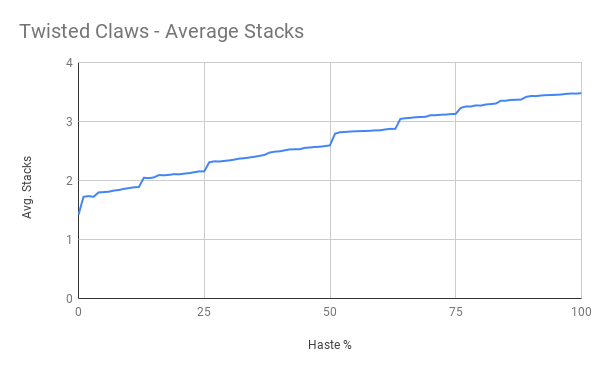
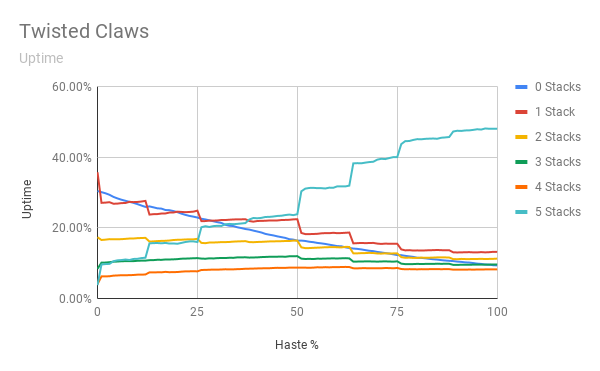
Guardian azerite analysis post

diff --git a/themes/dg-theme/layouts/_default/single.html b/themes/dg-theme/layouts/_default/single.html
@@ -16,10 +16,15 @@
 {{ define "main" }}
 {{ partial "header.html" . }}
 <main class="main">
-  <article class="article main-wrapper{{ if (or .Parent.Params.showsectiontoc .Params.series) }} with-sidebar{{ end }}">
+  <article class="article main-wrapper{{ if (or .Parent.Params.showsectiontoc .Params.series .Params.showtoc) }} with-sidebar{{ end }}">
     {{ if .Parent.Params.showsectiontoc }}
       <section class="section-overview toc">
         {{ partial "section-toc.html" . }}
+      </section>
+    {{ end }}
+    {{ if .Params.showtoc }}
+      <section class="section-overview toc">
+        {{ partial "post-toc.html" . }}
       </section>
     {{ end }}
     {{ if .Params.series }}

diff --git a/themes/dg-theme/assets/css/article.scss b/themes/dg-theme/assets/css/article.scss
@@ -2,6 +2,8 @@
 
 .article img {
   max-width: 100%;
+  display: block;
+  margin: auto;
 }
 
 .full-width {

diff --git a/themes/dg-theme/layouts/partials/post-toc.html b/themes/dg-theme/layouts/partials/post-toc.html
@@ -1,0 +1,4 @@
+<div class="sticky-toc">
+  <h1>{{ .Title }}</h1>
+  {{ .TableOfContents }}
+</div>

diff --git a/content/guardian/azerite-analysis.md b/content/guardian/azerite-analysis.md
@@ -3,20 +3,17 @@ title: "Guardian Druid Azerite Traits: Analysis"
 date: '2018-07-26'
 authors: ['Faide']
 description: "Azerite powers are a new system in Battle for Azeroth, similar to the Netherlight Crucible from Legion. Here is a detailed analysis of the azerite traits available to Guardians in Battle for Azeroth."
+showtoc: true
 patch: 8.0.1
 ---
 
 Azerite powers are a new system in Battle for Azeroth, similar to the Netherlight Crucible from Legion. They provide various bonuses and augment your skills in ways similar to tier set bonuses or legendaries, but at a slightly lower power level.
 
-Let's take a look at the traits available to Guardians. I'm going to focus today on only the subset of traits specific to the Guardian spec (and traits shared between Guardian and Feral), as they are the most relevant to this post. Keep in mind that this is a small subset of all available traits, and some are likely to be stronger than the Guardian specific traits in either offense or defense. 
+Let's take a look at the traits available to Guardians. First, I'll cover the set of traits specific to Guardian (or traits from other Druid specs that Guardian can select) on the outer ring (Tier 3), and then some of the more general tanking-related traits that are available on the middle and inner rings (Tier 2 and Tier 1, respectively). 
 
-You are always guaranteed at least one Guardian specific trait on any azerite piece (in some cases it's possible to have two, if Wild Fleshrending is present).
+I'll only be focusing on the value of single traits for now (that is, going from having none of a trait to having one of that trait), since much of the value comes from the effects that don't scale with the number of instances of that trait that are present. As a result, stacking more than one of a particular trait will have reduced value and almost always be worse than taking the first instance of another trait. As a general rule: values that are denoted by the variables X or Y scale with item level and trait stacking.
 
-Because some of the effects on the traits scale with item level, I will be assuming an item level of 370 (Heroic Uldir) for all trait values.
-
- - focus mainly on single ranks, since majority of value is in non-scaling effects
- - focus only on tier 3 traits: guardian traits and general traits that directly compete 
- - 
+Because many traits scale with item level, I will be assuming an item level of 370 (Heroic Uldir) for all trait values.
 
 # Druid Traits
 
@@ -24,101 +21,183 @@ The following traits are available only to Druids. Most of these are Guardian sp
 
 ## Craggy Bark
 
-{{< spell 276157 "Craggy Bark" >}} - {{< spell 22812 "Barkskin" >}} reduces melee attacks against you by X damage.
+- {{< spell 276157 "Craggy Bark" >}} - {{< spell 22812 "Barkskin" >}} reduces melee attacks against you by X damage.
 
-At 370, the value of the reduction is 362 damage per melee. If we assume a standardized enemy swing timer of 2 seconds per melee, with a {{< spell 22812 "Barkskin" >}} duration of 12 seconds you will reduce 6 melees per use, per enemy. That's a total reduction of 2172 (give or take a few points due to rounding) damage per Barkskin, per target. This effect occurrs after mitigation.
+At 370, the value of the reduction is 538 damage per melee. If we assume a standardized enemy swing timer of 2 seconds per melee, with a {{< spell 22812 "Barkskin" >}} duration of 12 seconds you will reduce 6 melees per use, per enemy. That's a total reduction of 3230 (give or take a few points due to rounding) damage per Barkskin, per target. If you use Barkskin on cooldown, you will average around 36 damage reduced per second over the course of a fight, but this is atypical since you will often want to save Barkskin for specific mechanics which may not necessarily align with the cooldown. Here is a graph of how delaying Barkskin relates to the average damage reduction of Craggy Bark:
 
-Frankly, this trait is pretty terrible. Not only is it only active during Barkskin when you already have a 10% damage reduction going, but the amount that it reduces is not especially meaningful *and* it only works on melee attacks. Unless this trait is buffed, I'd recommend avoiding it where possible. 
+![Craggy Bark DRPS](/guardian/images/craggy-bark-drps.png)
+
+Frankly, this trait is pretty terrible. Not only is it only active during {{< spell 22812 "Barkskin" >}} when you already have a 10% damage reduction going, but the amount that it reduces is not especially meaningful *and* it only works on melee attacks. Unless this trait is buffed, I'd recommend avoiding it where possible. 
 
 ## Gory Regeneration
 
-{{< spell 279536 "Gory Regeneration" >}} - {{< spell 33917 "Mangle" >}} increases the duration of an active {{< spell 22842 "Frenzied Regeneration" >}} by 1 second. Additionally, Frenzied Regeneration heals for X more per second.
+- {{< spell 279536 "Gory Regeneration" >}} - {{< spell 33917 "Mangle" >}} increases the duration of an active {{< spell 22842 "Frenzied Regeneration" >}} by 1 second. Additionally, Frenzied Regeneration heals for X more per second.
 
-At 370 the extra heal is valued at 524 extra healing per second, for a total of 2096 additional healing per cast. This extra healing is present regardless of whether the FR is empowered by Mangle or not. Additionally, the extension occurs *per target hit*, meaning that if you have {{< spell 102558 "Incarnation: Guardian of Ursoc" >}} and you can hit 3 targets with Mangle, you will get 3 seconds of extension per cast. That in addition to the cooldown of Mangle being reduced means you can sustain an FR for a very long time while Incarnation is active.
+At 370 the extra heal is valued at 1573 extra healing per second, for a total of 6292 additional healing per cast. This extra healing is present regardless of whether the {{< spell 22842 "Frenzied Regeneration" >}} is empowered by {{< spell 33917 "Mangle" >}} or not. Additionally, the extension occurs *per target hit*, meaning that if you have {{< spell 102558 "Incarnation: Guardian of Ursoc" >}} and you can hit 3 targets with Mangle, you will get 3 seconds of extension per cast. That in addition to the cooldown of Mangle being reduced means you can sustain an FR for a very long time while Incarnation is active.
 
-This trait basically lives or dies by whether or not you're talented into Incarnation. If you aren't, Mangle's cooldown is so long that you will get at most 1 second of extension (you can get 2 in theory if you have around 88% haste, which may be possible with lust/berserking and a lot of haste rating). If you are, this trait becomes an incredibly powerful boost to your self-healing capabilities. 
+![Gory Regeneration healing](/guardian/images/gory-regeneration-healing.png)
 
-That being said, while this trait looks very good (under certain circumstances) on paper, I'm not convinced it has the same value in practice. For one, the HPS of Frenzied Regeneration is still quite low, at 6% HP per tick, baseline. The extension component of Gory Regeneration does not improve the HPS output at all, it merely prolongs its duration. This would be fine in isolation, but in reality you don't have infinite health and you will have external healing. Extending FR increases the chance that it will cause overhealing, either for you or for your healers, which eliminates the benefit of receiving more healing altogether. 
+The discontinuity in the 1 target plot is the point at which you can sustain a {{< spell 22842 "Frenzied Regeneration" >}} beyond the duration of {{< spell 102558 "Incarnation: Guardian of Ursoc" >}}, after which point the duration (and by extension, the healing) stops increasing at such a dramatic rate.
 
+This trait basically lives or dies by whether or not you're talented into {{< spell 102558 "Incarnation: Guardian of Ursoc" >}}. If you aren't, Mangle's cooldown is so long that you will get at most 1 second of extension (you can get 2 in theory if you have around 88% haste, which may be possible with lust/berserking and a lot of haste rating). If you are, this trait becomes an incredibly powerful boost to your self-healing capabilities. 
+
+That being said, while this trait looks very good on paper (under certain circumstances), I'm not convinced it has the same value in practice. For one, the HPS of {{< spell 22842 "Frenzied Regeneration" >}} is still quite low, at 6% HP per tick baseline (with the bonus healing from the trait it is probably closer to 7%). The extension component of Gory Regeneration does not improve the HPS output at all, it merely prolongs its duration. This would be fine in isolation, but in reality you don't have infinite health and you will have external healing. Extending FR increases the chance that it will cause overhealing, either for you or for your healers, which eliminates the benefit of receiving more healing altogether. 
 
 ## Guardian's Wrath
 
-{{< spell 279541 "Guardian's Wrath" >}} - {{< spell 6807 "Maul" >}} deals X additional damage and reduces the cost of your next {{< spell 192081 "Ironfur" >}} by 15 Rage, stacking up to 3 times.
+- {{< spell 279541 "Guardian's Wrath" >}} - {{< spell 6807 "Maul" >}} deals X additional damage and reduces the cost of your next {{< spell 192081 "Ironfur" >}} by 15 Rage, stacking up to 3 times.
 
-At 370, value of the additional damage is 1048. 
+At 370, Maul deals 1048 additional damage. 
 
-This is a great trait all around. Not only is it a significant boost to Maul's damage, but it affords you some flexibility in your Rage management. Particularly in situations with tank swaps, this allows you to safely spend Rage on Maul and still be able to have an Ironfur up for when you taunt back. Offensively, this is one of the strongest Guardian specific traits out there.
+![Guardian's Wrath bonus damage](/guardian/images/guardians-wrath-damage.png)
+
+In order to evaluate this trait, let's consider its offensive value. Assuming you are casting {{< spell 192081 "Ironfur" >}} at least enough to consume every stack that you generate, you can consider {{< spell 6807 "Maul" >}} to effectively cost 30 Rage per cast. The Rage you would have spent on Ironfur is now refunded to you, allowing you to cast more Mauls over the course of a fight. This is effectively a 33.3% gain in Mauls which, in addition to the additional damage, significantly improves your DPS output when you are using a combination of Ironfur and Maul. Of course, if you never cast Ironfur (or if you waste stacks by not casting it enough), you will get less value out of the trait.
+
+Defensively, this trait is not very strong. Obviously while not tanking, you can bank a free {{< spell 192081 "Ironfur" >}} for instant mitigation when you taunt back, which allows you to spend more Rage on {{< spell 6807 "Maul" >}} during times when you aren't actively tanking. But from a pure survivability perspective, if you were concerned only about your defensive capacity you would spend Rage exclusively on Ironfur and this trait would provide no value. It's the hybrid nature of the trait that gives it its value.
+
+This is a great trait all around. Not only is it a significant boost to {{< spell 6807 "Maul" >}}'s damage, but it affords you some flexibility in your Rage management. Particularly in situations with tank swaps, this allows you to safely spend Rage on Maul and still be able to have an {{< spell 192081 "Ironfur" >}} up for when you taunt back. Offensively, this is one of the strongest Guardian specific traits out there.
 
 ## Layered Mane
 
-{{< spell 279552 "Layered Mane" >}} - {{< spell 192081 "Ironfur" >}} increases your Agility by X, and casting Ironfur has a chance to grant 2 applications.
+- {{< spell 279552 "Layered Mane" >}} - {{< spell 192081 "Ironfur" >}} increases your Agility by X, and casting Ironfur has a chance to grant 2 applications.
 
-At 370 you gain 175 extra agility, per {{< spell 192081 "Ironfur" >}} stack. This means that the more Ironfur you have, the stronger each individual stack becomes (since Ironfur dynamically benefits from your Agility).
+At 370 you gain 122 extra agility, per {{< spell 192081 "Ironfur" >}} stack. This means that the more Ironfur you have, the stronger each individual stack becomes (since Ironfur dynamically benefits from your Agility).
 
-This looks to be the strongest Guardian-specific defensive trait available. It effectively increases your average  stacks over an encounter by 10%, while also making each stack slightly stronger through its bonus Agility. It's difficult to pin down an exact value for this trait, since the value of an additional Ironfur differs depending on how many stacks you already have rolling; going from 0 to 2 stacks is far more valuable than going from 2 to 4 stacks, for example. It is however always beneficial to have an additional stack at any point, unless it puts you over the armor cap (and even then, every point of armor up to the cap has value).
+![Layered Mane bonus Agility and Armor](/guardian/images/layered-mane-stats.png)
+
+This looks to be the strongest Guardian-specific defensive trait available. It effectively increases your average {{< spell 192081 "Ironfur" >}} stacks over an encounter by 10%, while also making each stack slightly stronger through its bonus Agility. It's difficult to pin down an exact value for this trait, since the value of an additional {{< spell 192081 "Ironfur" >}} differs depending on how many stacks you already have rolling; going from 0 to 2 stacks is far more valuable than going from 2 to 4 stacks, for example. It is however always beneficial to have an additional stack at any point, unless it puts you over the armor cap (and even then, every point of armor up to the cap has value).
 
 Not only is it incredibly strong defensively, but the bonus Agility grants an offensive bonus as well. I'd consider this a must-have trait for just about all purposes.
 
 ## Masterful Instincts
 
-{{< spell 273344 "Masterful Instincts" >}} - After {{< spell 61336 "Survival Instincts" >}} fades, you gain X Mastery and Y Armor for 10 seconds.
+- {{< spell 273344 "Masterful Instincts" >}} - After {{< spell 61336 "Survival Instincts" >}} fades, you gain X Mastery and Y Armor for 10 seconds.
 
-At 370, you gain 173 Mastery and 693 Armor.
+At 370, you gain 285 Mastery and 623 Armor.
 
-Another victim of terrible tuning. The design of this trait isn't terrible, as it's essentially extending your {{< spell 61336 "Survival Instincts" >}} beyond its normal duration which could be useful in many situations. The amount of stats you gain is completely pitiful for how rarely you'll have the buff up, however.
+![Masterful Instincts bonus Mastery and Armor](/guardian/images/masterful-instincts-stats.png)
+
+Another victim of terrible tuning. The design of this trait isn't terrible, as it's essentially extending your {{< spell 61336 "Survival Instincts" >}} beyond its normal duration which could be useful in many situations. The amount of stats you gain is completely pitiful for how rarely you'll have the buff up, however. Additionally, it provides no benefit outside of SI, a spell you use very few times during a fight.
 
 ## Twisted Claws
 
-{{< spell 275906 "Twisted Claws" >}} - The direct damage of {{< spell 77758 "Thrash" >}} has a 50% chance to grant you X Agility for 12 seconds, stacking up to 5 times.
+- {{< spell 275906 "Twisted Claws" >}} - The direct damage of {{< spell 77758 "Thrash" >}} has a 50% chance to grant you X Agility for 12 seconds, stacking up to 5 times.
 
-At 370, you gain 89 Agility per stack, for a gain of 445 Agility at 5 stacks. Notably, you have a chance to proc a stack for every target hit by {{< spell 77758 "Thrash" >}}, meaning you are significantly more likely to maintain your stacks on multitarget.
+At 370, you gain 89 Agility per stack, for a gain of 445 Agility at 5 stacks. Notably, you have a chance to proc a stack for every target hit by {{< spell 77758 "Thrash" >}}, meaning you are significantly more likely to maintain your stacks in multi-target scenarios.
 
-Notably, this trait improves dramatically with Haste. Because Haste lowers the cooldown of Thrash, the more Haste you have the more chances throughout a fight you have to apply a stack of Twisted Claws. While Haste won't improve your chances of maintaining an already existing buff until you have quite high amounts of it (you need at least 50% Haste to be able to fit another Thrash into the buff duration), it will reduce the time you spend at 0 stacks, raising your average stacks over an encounter.
+![Twisted Claws bonus Agility and Armor](/guardian/images/twisted-claws-stats.png)
 
-Here are some charts showing the relative uptimes of various stack counts, and average stack counts, at varying levels of Haste.
-
-![Twisted Claws Stack Uptimes](/guardian/images/twisted-claws-uptimes.png)
+Notably, this trait improves dramatically with Haste. Because Haste lowers the cooldown of {{< spell 77758 "Thrash" >}}, the more Haste you have the more chances throughout a fight you have to apply a stack of Twisted Claws. Here are some charts showing the relative uptimes of various stack counts, and average stack counts, at varying levels of Haste.
 
 ![Twisted Claws Average Stacks](/guardian/images/twisted-claws-stacks.png)
+![Twisted Claws Stack Uptimes](/guardian/images/twisted-claws-average-stack.png)
 
-The sharp increases in uptimes/stack counts correspond to haste amounts at which you can fit extra global cooldowns into the buff duration, and exist because occasionally you will delay {{< spell 77758 "Thrash" >}} by one or two casts to prioritize a {{< spell 210706 "Gore" >}} proc or to dump Rage on Maul. The major spike at 50% Haste denotes the aforementioned boundary where you can fit a third Thrash cast into a single buff.
+The sharp increases in uptimes/stack counts correspond to haste amounts at which you can fit extra global cooldowns into the buff duration, and exist because occasionally you will delay {{< spell 77758 "Thrash" >}} by one or two casts to prioritize a {{< spell 210706 "Gore" >}} proc or to dump Rage on Maul. The major spike at 50% Haste indicates the point at which you can fit a third Thrash cast into a single buff, when it has a 4 second cooldown.
 
-###TODO: put some mathematics here
-
-This trait looks to be very strong both offensively and defensively, provided you can maintain reasonably good uptimes at high stacks. On one target this may prove difficult; at normal haste levels, you will get two chances to refresh the buff if you are casting Thrash on cooldown (which you should be doing anyway).
+This trait looks to be very strong both offensively and defensively, provided you can maintain reasonably good uptimes at high stacks. On one target this may prove difficult; at normal haste levels, you will get two chances to refresh the buff if you are casting {{< spell 77758 "Thrash" >}} on cooldown (which you should be doing anyway).
 
 ## Ursoc's Endurance
 
-{{< spell 280161 "Ursoc's Endurance ">}} Gain an absorb for X damage over 8 seconds when you use Barkskin or Survival Instincts.
+- {{< spell 280161 "Ursoc's Endurance ">}} Gain an absorb for X damage over 8 seconds when you use {{< spell 22812 "Barkskin" >}} or {{< spell 61336 "Survival Instincts" >}}.
 
-At 370, the value of the absorb is 3015. 
+At 370, the value of the absorb is 18700. 
 
-As with {{< spell 276157 "Craggy Bark" >}}, this trait suffers from overlapping with your already strong defensive cooldowns. The absorb is better than it may first appear due to the fact that absorbs are consumed after damage reduction. That is to say, if you use Survival Instincts, while it is active the absorb has essentially double the value since the damage is first reduced by 50%. The major downside is that it only has value during your defensives, when your risk of dying is already considerably lowered.
+As with {{< spell 276157 "Craggy Bark" >}}, this trait suffers from overlapping with your already strong defensive cooldowns. The absorb is better than it may first appear due to the fact that absorbs are consumed after damage reduction. That is to say, if you use {{< spell 61336 "Survival Instincts" >}}, while it is active the absorb has essentially double the value since the damage is first reduced by 50%. The major downside is that it only has value during your defensives, when your risk of dying is already considerably lowered. However, this trait is on the inner ring and therefore does not compete with the other traits outlined here.
 
 ## Wild Fleshrending
 
-{{< spell 279527 "Wild Fleshrending" >}} causes {{< spell 5221 "Shred" >}} to deal X additional damage and {{< spell 213771 "Swipe" >}} to deal Y additional damage to targets affected by your {{< spell 77758 "Thrash" >}}.
+- {{< spell 279527 "Wild Fleshrending" >}} causes {{< spell 5221 "Shred" >}} to deal X additional damage and {{< spell 213771 "Swipe" >}} to deal Y additional damage to targets affected by your {{< spell 211141 "Thrash" >}}.
 
-At 370, {{< spell 5221 "Shred" >}} deals 698 extra damage, and {{< spell 213771 "Swipe" >}} deals 262 extra damage.
+I'm only including this trait for completeness' sake. It is absolutely not worth taking for Guardian, as it only works with Cat Form {{< spell 211141 "Thrash" >}}, and does not work at all on {{< spell 5221 "Shred" >}} if you are in Guardian spec. 
 
-Obviously the Shred portion of this trait has no value unless you are catweaving. The extra Swipe damage is a moderate damage boost, although if you are catweaving you will be casting far fewer Swipes than you would be staying in Bear Form. This trait has the potential to be quite strong in multitarget/dungeon scenarios where you are casting Swipe a lot and hitting many targets.
 
-*Note that this trait is primarily a Feral trait that happens to be available to Guardians, and when I attempted to test it the trait was not working at all for either spec. I don't know for sure whether the trait is intended to be selectable by Guardians, or if it is meant to deal as much damage as it does. When the trait is fixed I will update this section with further testing.*
 
 # General Tanking Traits
 
-These traits are available for all tanks, 
+These traits are available for all classes, and populate the inner rows of Azerite gear. They primarily compete with each other (and {{< spell 280161 "Ursoc's Endurance ">}}), as you can find most of the possible combinations of inner and outer traits on available gear.
+
+Note that this is not an exhaustive list of all available general traits, but for the sake of brevity I will only talk about the ones that you might consider taking for survivability purposes. If a trait is not listed here, it is because it either provides little or no defensive benefit, or is too unreliable to be considered for tanking.
 
 ## Ablative Shielding
 
+- {{< spell 271544 "Ablative Shielding" >}} - Falling below 40% health grants you X Armor for 10 seconds. Taking further Physical damage reduces the Armor granted. May only occur every 30 seconds.
+
+At 370, you gain 1086 Armor. 
+
+I wasn't able to test this trait personally, so I don't know exactly how the "taking further Physical damage" portion of this trait works. Regardless, this is a poor trait even without considering that part of it. It has no value above 40% health, and it isn't a reliable death save like some of the other "when you drop below X% health" effects. Armor only reduces damage, unlike absorbs or cheat deaths which negate damage entirely. This is a trait you can safely avoid.
+
+## Azerite Fortification
+
+- {{< spell 268435 "Azerite Fortification" >}} - When stunned, immobilized, or knocked back, you heal for X.
+
+At 370, you heal for 13246.
+
+This is a situational pick. There are several bosses in Uldir that have knockback mechanics (Taloc, Zul) where this trait could potentially be very strong as I don't think it has any internal cooldown. Because this depends so heavily on whether or not you can get CC'd, it's hard to value this trait generally, and I do not recommend it for general purpose survivability.
+
+## Azerite Veins
+
+- {{< spell 267683 "Azerite Veins" >}} - Taking damage has a chance to heal you for X every 3 seconds for 18 seconds or until you are fully healed.
+
+At 370, you are healed for 6750 every 3 seconds (reduced by Haste), for a maximum potential of 40500. The RPPM is 1.  Assuming you always get the full value of the heal, this trait averages ~670 healing per second. I wasn't able to get my hands on one for testing, but it appears to have some sort of Haste scaling as well. 
+
+There are some pretty major drawbacks to the trait: the fact that it has a very low RPPM makes it unreliable in terms of providing defensive value, and the fact that the effect is cancelled when you reach full health devalues it further, because in cases where you are topped off briefly at the beginning of a proc, and then brought low again you will get next to no value out of the proc. 
+
+## Blood Siphon/Lifespeed/On My Way
+
+- {{< spell 264108 "Blood Siphon" >}} - Increases your Mastery by X and your Leech by Y.
+- {{< spell 267665 "Lifespeed" >}} - Increases your Haste by X and your Avoidance by Y.
+- {{< spell 264108 "On My Way" >}} - Increases your Versatility by X and your Speed by Y.
+
+At 370, the amount of secondary you gain is 121, and the amount of tertiary you gain is 37.
+
+I've grouped these traits together because they all provide the same sort of benefit &mdash; a flat secondary and tertiary stat gain. These are by no means the best traits, but they do provide a consistent, non-gimmicky boost to your stats and aren't terrible. Of the three, {{< spell 264108 "Blood Siphon" >}} is the strongest, as both Mastery and Leech are strong stats for survivability. 
+
 ## Bulwark of the Masses
+
+- {{< spell 268595 "Bulwark of the Masses" >}} - When you are surrounded by 4 or more enemies, gain a shield that absorbs X damage. Cannot occur more than once every 15 seconds.
+
+At 370, the size of the absorb is 14842. 
+
+This trait results in around 1k healing per second average, assuming the full absorb is consumed every 15 seconds. It's quite strong (relative to the other absorb-type traits) if you can reliably trigger the effect, for example in dungeons when pulling large packs of trash.
 
 ## Crystalline Carapace
 
+- {{< spell 271536 "Crystalline Carapace" >}} - When dealt damage greater than 10% of your maximum health, gain X Armor and deal Y damage to attackers.
+
+At 370, you gain 124 Armor and deal 107 damage.
+
+This trait has nearly 100% uptime while tanking. The armor bonus is nothing special, but it is very consistent and reliable. This trait is very similar to {{< spell 268596 "Gemhide" >}} in function, except Crystalline Carapace deals damage instead of also granting Avoidance. There are a few more differences that I'll outline in the Gemhide description.
+
 ## Gemhide
+
+- {{< spell 268596 "Gemhide" >}} - When dealt damage greater than 10% of your maximum health, gain X Armor and Y Avoidance.
+
+At 370, this trait grants 211 Armor and 128 Avoidance.
+
+As mentioned above, this trait is very similar to {{< spell 271536 "Crystalline Carapace" >}} &mdash; both are high-uptime Armor buffs that have very reliable ways to proc them when needed. Defensively, Gemhide is strictly better. Not only does it grant more Armor at all item levels, but instead of dealing damage as a secondary effect like Crystalline Carapace, it also grants Avoidance, which works on not only raid-wide damage, but also on cleaving tank damage as well (any attack with an AoE component).
+
+![Crystalline Carapace vs Gemhide bonus Armor](/guardian/images/crystalline-carapace-vs-gemhide.png)
 
 ## Impassive Visage
 
+- {{< spell 268437 "Impassive Visage" >}} - When you take damage, heal for X. Cannot occur more than once every 6 seconds.
+
+At 370, the value of this heal is 3896.
+
+You can think of this trait as granting you around 650 healing per second. The nice thing about the way the proc works is that you are only healed when you take damage, effectively guaranteeing that it will not overheal (unless the damage is so insignificant that it deals less than the heal would have done). If you are taking consistent damage that is too low to proc {{< spell 271536 "Crystalline Carapace" >}} or {{< spell 268596 "Gemhide" >}}, this is probably one of the stronger of the generic traits available.
+
 ## Resounding Protection
 
+- {{< spell 263962 "Resounding Protection" >}} - Every 30 seconds, gain an absorb for 30 seconds.
+
+At 370, the size of the absorb is 11131.
+
+{{< item 132444 "Prydaz, Xavaric's Magnum Opus" >}}-lite. If the full shield is consumed every time, this trait results in ~370 healing per second. The pure throughput is lower than other traits that grant healing like {{< spell 268437 "Impassive Visage" >}}, however absorbs also increase your effective health and reduce your chances of being one-shot. The absorb also provides benefit while you're at or near full health, unlike healing traits which are only effective when they don't overheal.
+
 ## Winds of War
+
+- {{< spell 267671 "Winds of War" >}} - Taking damage grants X Dodge for 3 seconds, stacking up to 10 times.
+
+At 370 you gain 37 Dodge rating per stack, for a total of 370 Dodge rating at max stacks.
+
+While Dodge is very inconsistent as a damage-reducing mechanic and should not be relied on as a survivability tool, it does reduce your overall damage taken over the course of a fight. Assuming you're at an average of 370 item level and have an equal distribution of secondaries (3732 Agility and 704 Crit rating from gear), adding 370 Dodge rating will improve your chance to dodge by 3.18%.
